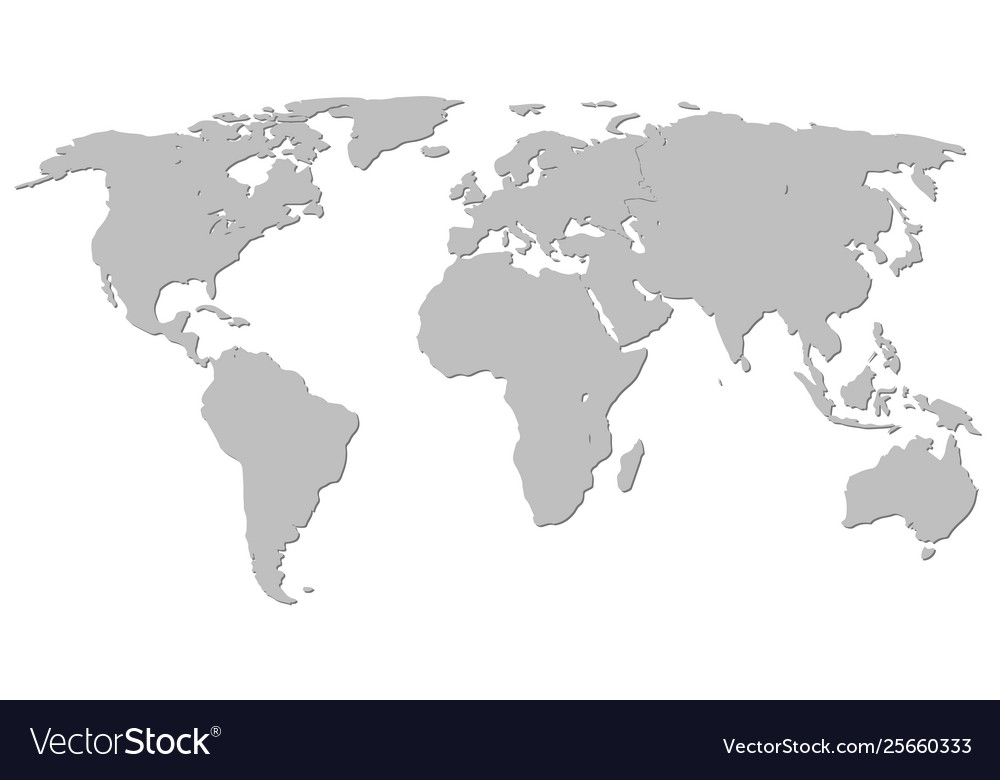
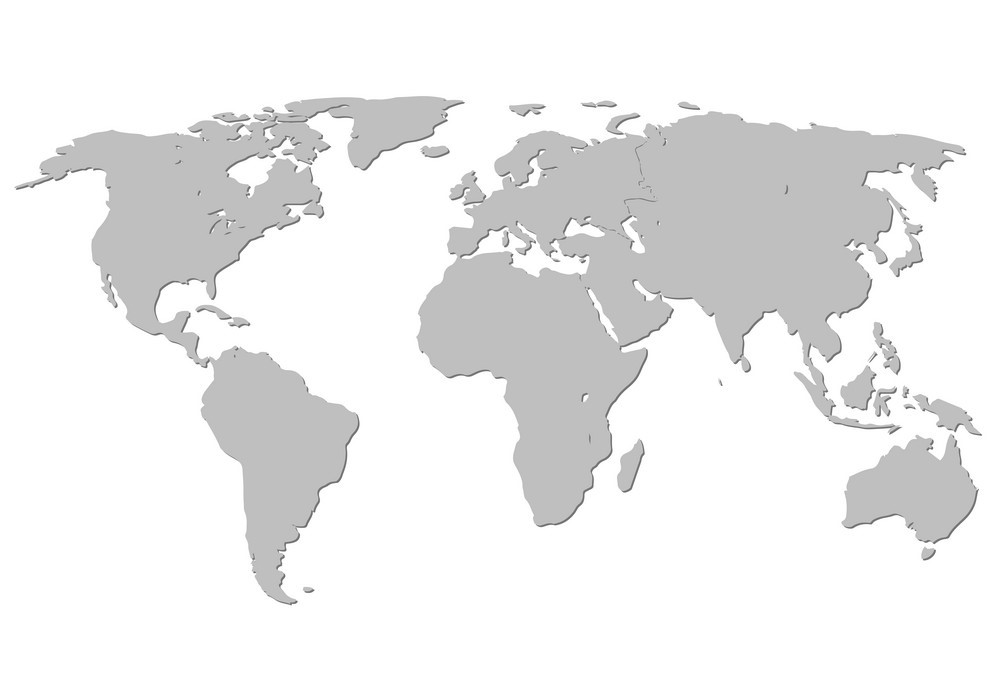
Map changes

Changed region(s): [[0.0, 0.1203, 1.0, 1.0]]

diff --git a/src/app/app.component.css b/src/app/app.component.css
@@ -21,7 +21,7 @@ a:hover {
 }
 .container {
     background: url('/assets/worldmap.jpg') center 250px no-repeat;
-    background-size: 40%;
+    background-size: 60%;
     bottom: 0;
     left: 0;
     opacity: 1;

diff --git a/src/app/country-list/country-list.component.css b/src/app/country-list/country-list.component.css
@@ -3,6 +3,7 @@
   font-size: 14px;
   border: 5px solid #00a0d7;
   margin-top: 5%;
+  background: #fff;
 }
 .table-striped tbody tr:nth-of-type(odd) {
   background-color: #00a0d7;

diff --git a/src/app/country-detail-view/country-detail-view.component.css b/src/app/country-detail-view/country-detail-view.component.css
@@ -1,5 +1,6 @@
 .card-detail {
   margin-top: 5%;
+  background: #000;
 }
 .card-detail h2 {
   margin-top: 5%;
@@ -26,3 +27,4 @@ a {
 a:hover {
   cursor: pointer;
 }
+

diff --git a/src/app/app.component.html b/src/app/app.component.html
@@ -6,4 +6,5 @@
       List</a>
    </nav>
   <router-outlet></router-outlet>
+  <div id="worldmap"></div>
 </div>
